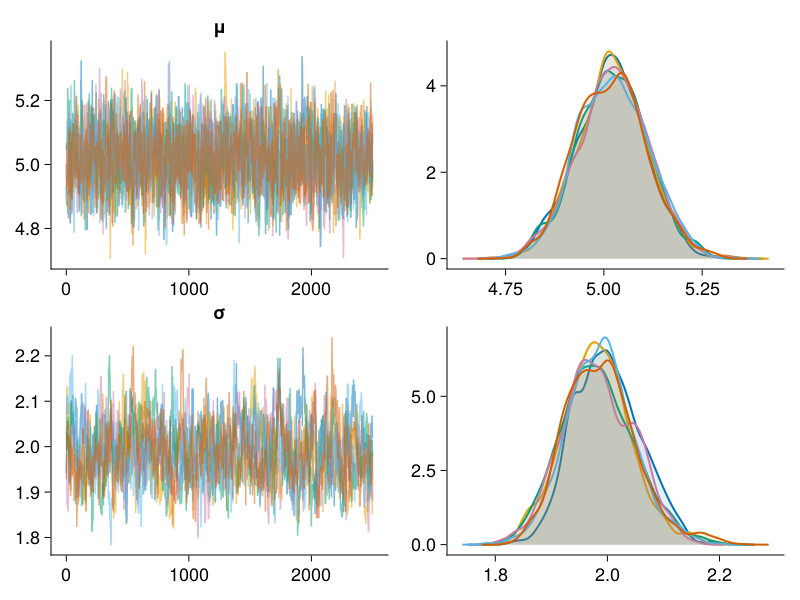
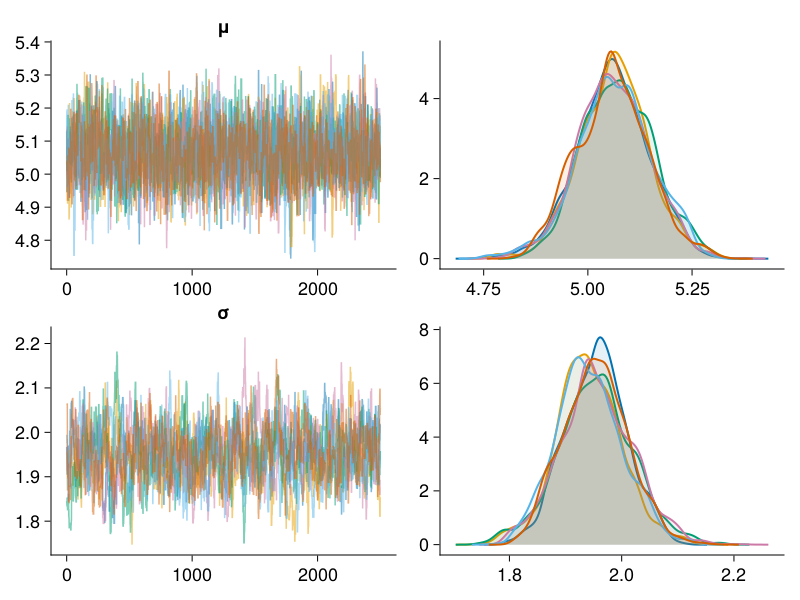
asd

diff --git a/random_walk_metropolis.md b/random_walk_metropolis.md
@@ -181,16 +181,17 @@ end
 ````
 
 ````
-median(y) = 5.153871190262614
-std(y) = 1.9924000117938518
-accepted / nsamples = [0.6072, 0.608, 0.6124, 0.6092, 0.6138, 0.615]
-median_μ = 5.0212679190233045
-median_σ = 1.9852937885924116
+median(y) = 5.047163601850844
+std(y) = 1.9534517221921874
+accepted / nsamples = [0.6048, 0.602, 0.591, 0.6014, 0.6136, 0.6098]
+median_μ = 5.062607764631522
+median_σ = 1.9488129391766038
 
 ````
 
 Trace plot and densities of the MCMC samples:
 ![](img/trace_unknown_sigma_mu.png)
+
 Posterior predictive check (mean in red):
 ![](img/pred_unknown_sigma_mu.png)
 
